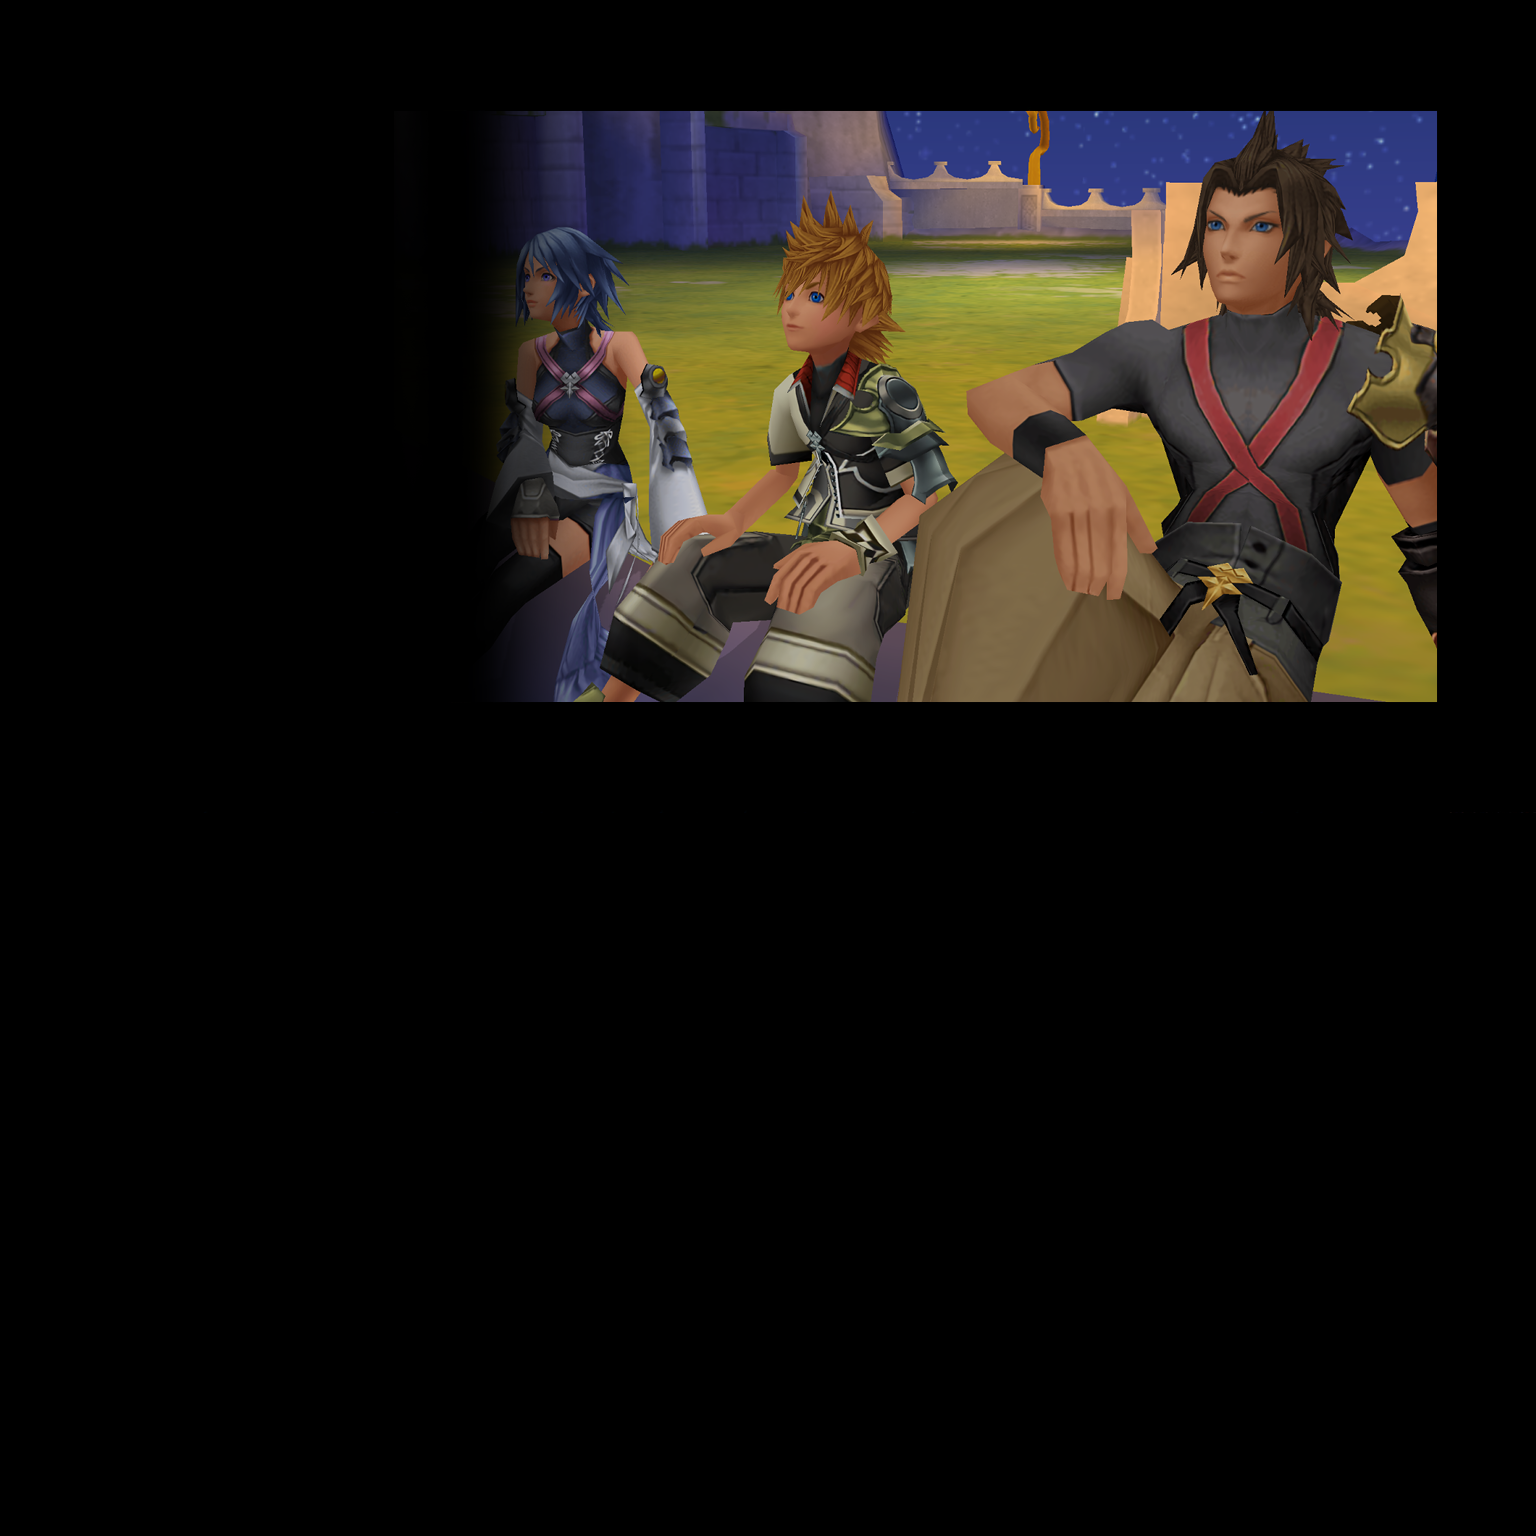
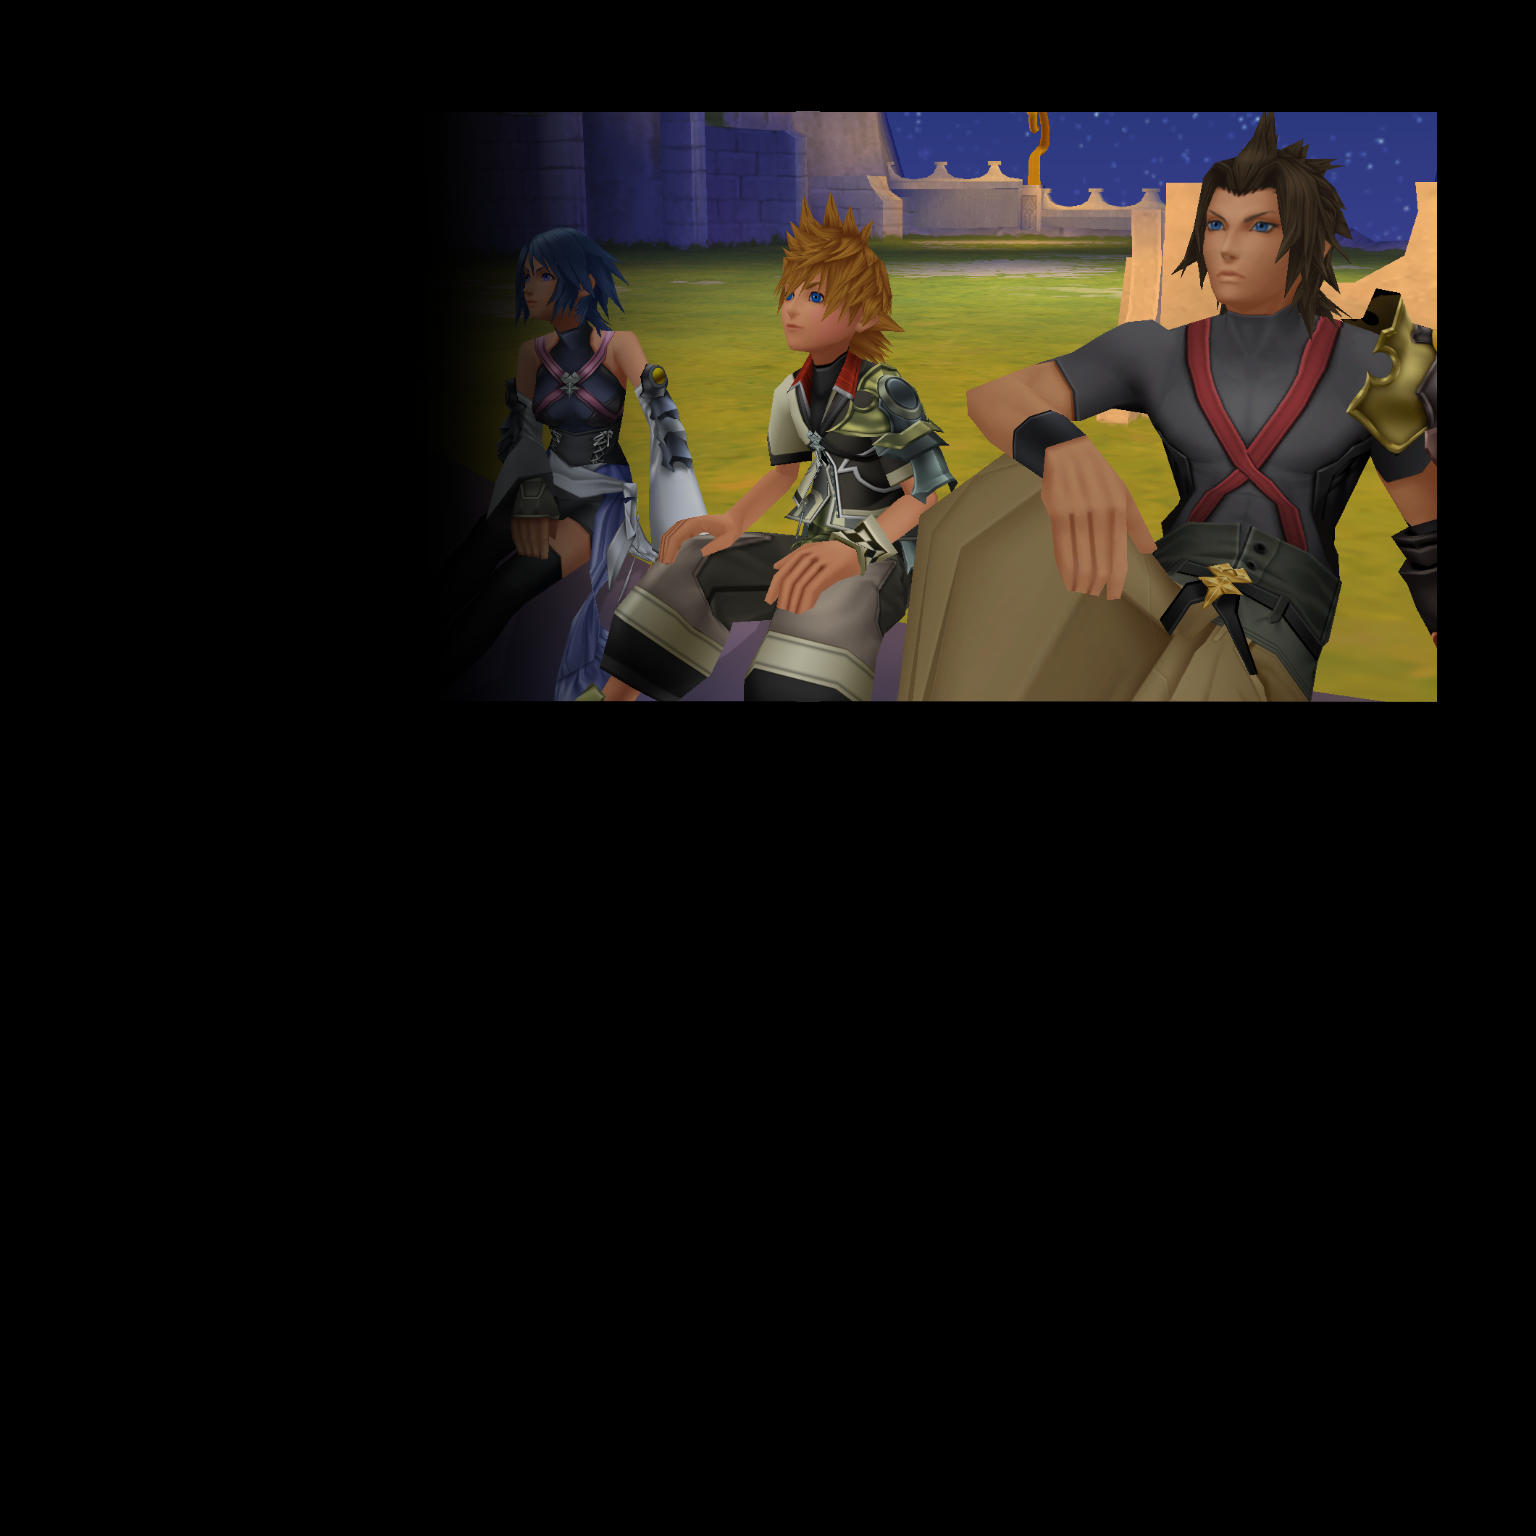
The ignored but not forgotten Ventus Room at daytime was implemented and replaced - some textures were changed due to bizarre smoothness, and a preview of the Theater change.

diff --git a/readme.md b/readme.md
@@ -17,6 +17,8 @@ Original Forum Thread: https://forums.ppsspp.org/showthread.php?tid=24126
 <br><b>Download Links:</b>
 
 <br>Stable Version: https://github.com/AkiraJkr/Birth-by-Sleep-HD-ReMix/archive/master.zip
+
+<br>Nightly Source: https://github.com/AkiraJkr/Birth-by-Sleep-HD-ReMix-Nightly
 <br>Nightly Version:  https://github.com/AkiraJkr/Birth-by-Sleep-HD-ReMix-Nightly/archive/master.zip
 
 
@@ -59,7 +61,7 @@ Step 2: Go back to the pause menu(Or unpause then pause), press [Cheats], [Edit 
 
 # FAQ
 <br><b>Q:</b> You're taking too long to update, what's going on!?
-<br><b>A:</b> I started this project with the support of hououin_kyouma back in 27/12/2017, whom teached me how to use the texture replaceent feature in PPSSPP and helped in several important things. It had began as a simple pack, with some fonts created by him(that are surprisingly very similar to 2.5's), and some upscaled textures here and there, but soon we got someone to dump the textures, and I began to categorize things, pour more work than I should, and here you have it, a experience that matches the quality of the console, if not better!
+<br><b>A:</b> I started this project with the support of hououin_kyouma back in 27/12/2017, whom teached me how to use the texture replacement feature in PPSSPP and helped in several important things. It had began as a simple pack, with some fonts created by him(that are surprisingly very similar to 2.5's), and some upscaled textures here and there, but soon we got someone to dump the textures, and I began to categorize things, pour more work than I should, and here you have it, a experience that matches the quality of the console, if not better!
 <br>But it's not soo simple for me to keep dumping updates one after another after I got 2.5's textures. There is real life out there on my call, I am a human, not a robot to work 24/7 on it, rarely get motivation to continue on the project, and not to include the crappy computer I have, which doesn't even permit me to run the game properly at the minimum resolution for me to not have pixelated results of the texture pack for testing if everything works fine: https://i.imgur.com/qChMUZi.png
 <br>In short, you'll have to bear with the slow progress, but I am going till the end with this project. Thank you for reading all the way up here.
 
